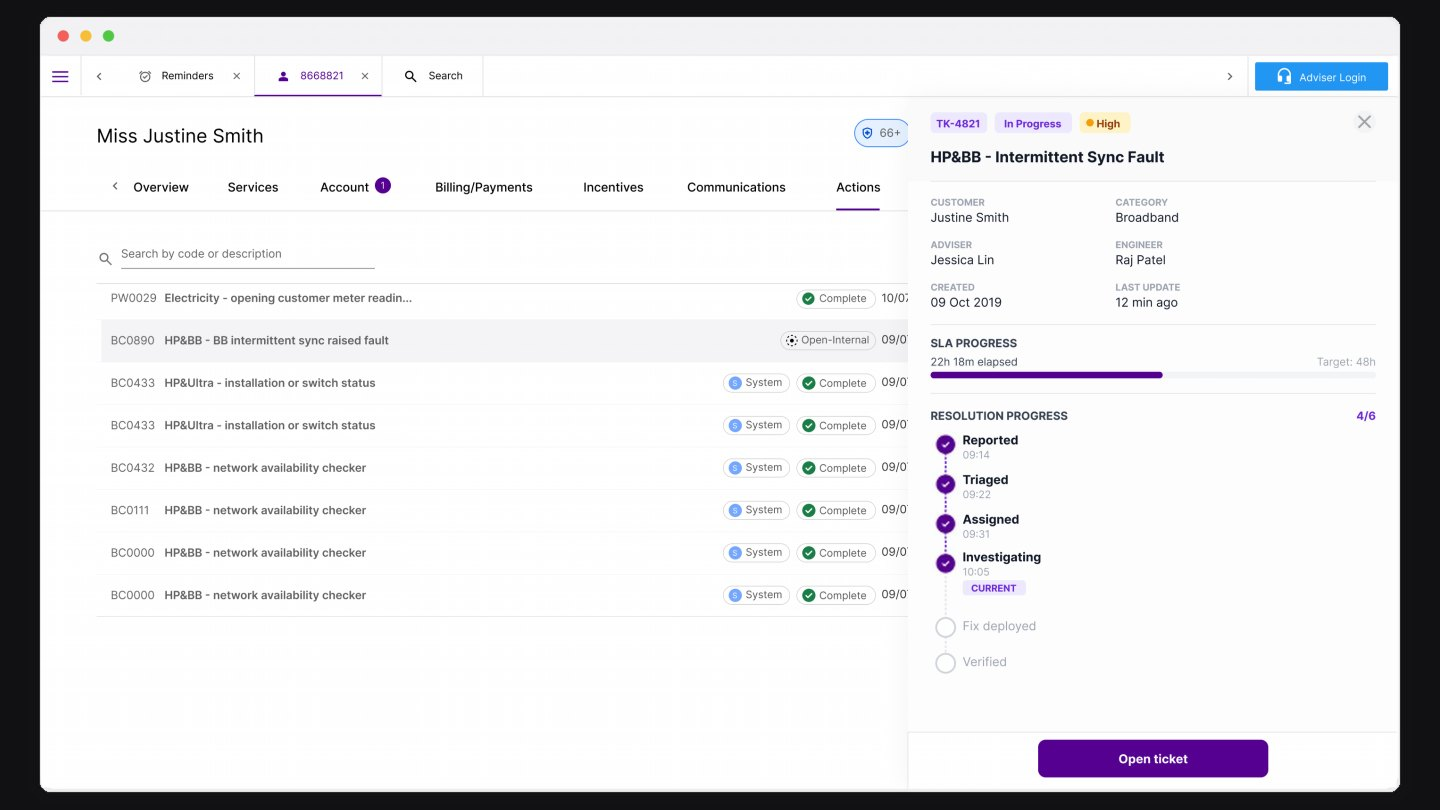
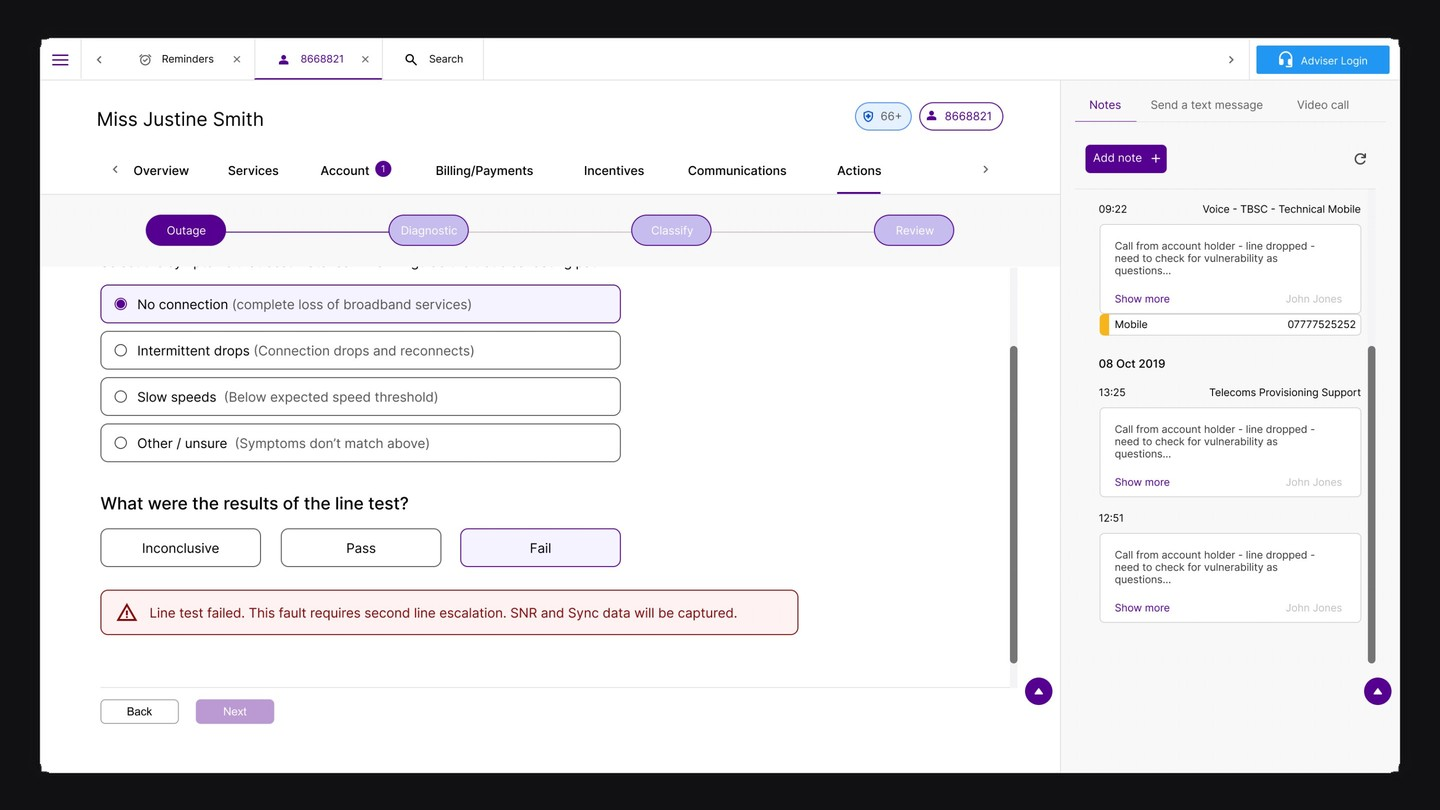
UW: guided-entry hero, broadband fault form in section 4
Claude-Session: https://claude.ai/code/session_01AXHPT6AWr4FLTU6gsMczeY

diff --git a/content/case-studies/utility-warehouse.md b/content/case-studies/utility-warehouse.md
@@ -12,7 +12,7 @@ client: Utility Warehouse, in-house
 role: UX Designer
 team: Programme lead, a director-level sponsor, first-line advisers, head of second line, second-line engineers, Learning and Development, and the William platform engineers
 hero: hero.jpg
-heroAlt: The William ticket status panel beside the adviser's actions list, with SLA and resolution progress
+heroAlt: Guided fault entry in the adviser's customer record: a failed line test triggers second-line escalation and captures the sync data
 outcomes:
   - 56% reduction in ticket quality errors reaching second line
   - £184K saved within three months from reduced engineer misdispatch
@@ -58,8 +58,8 @@ The fault-raising and triage template was mine. I took the contradictory require
 
 I tested each iteration with first-line advisers before it went near the platform engineers, then worked with them through implementation. The detail I would point to is the validation: the adviser sees why a field matters at the moment they are filling it in, not in a rejection the next day.
 
-::image pair s4-guided-entry.jpg s4-raised-ticket.jpg
-Left, guided fault entry: the stepper, the symptom choice, and a failed line test that tells the adviser what happens next. Right, the raised ticket as the adviser sees it: SLA clock, resolution stage and the adviser–engineer activity in one panel.
+::image pair s4-fault-form.jpg s4-raised-ticket.jpg
+Left, a broadband fault in progress: the fault type sets the questions, with help on the ones advisers used to get wrong. Right, the raised ticket as the adviser sees it: SLA clock, resolution stage and the adviser–engineer activity in one panel.
 
 ### 5. Structure in, errors out
 
